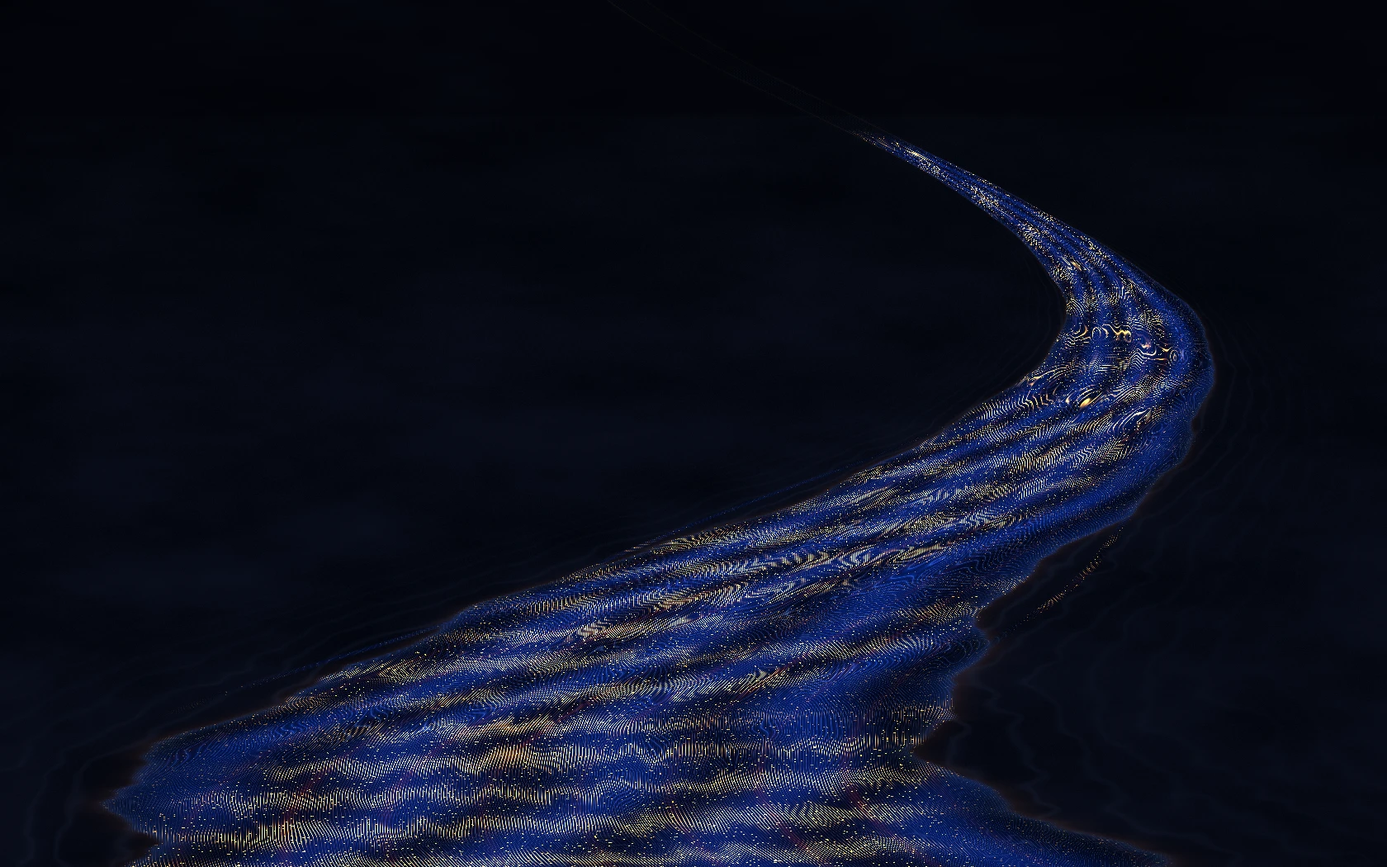
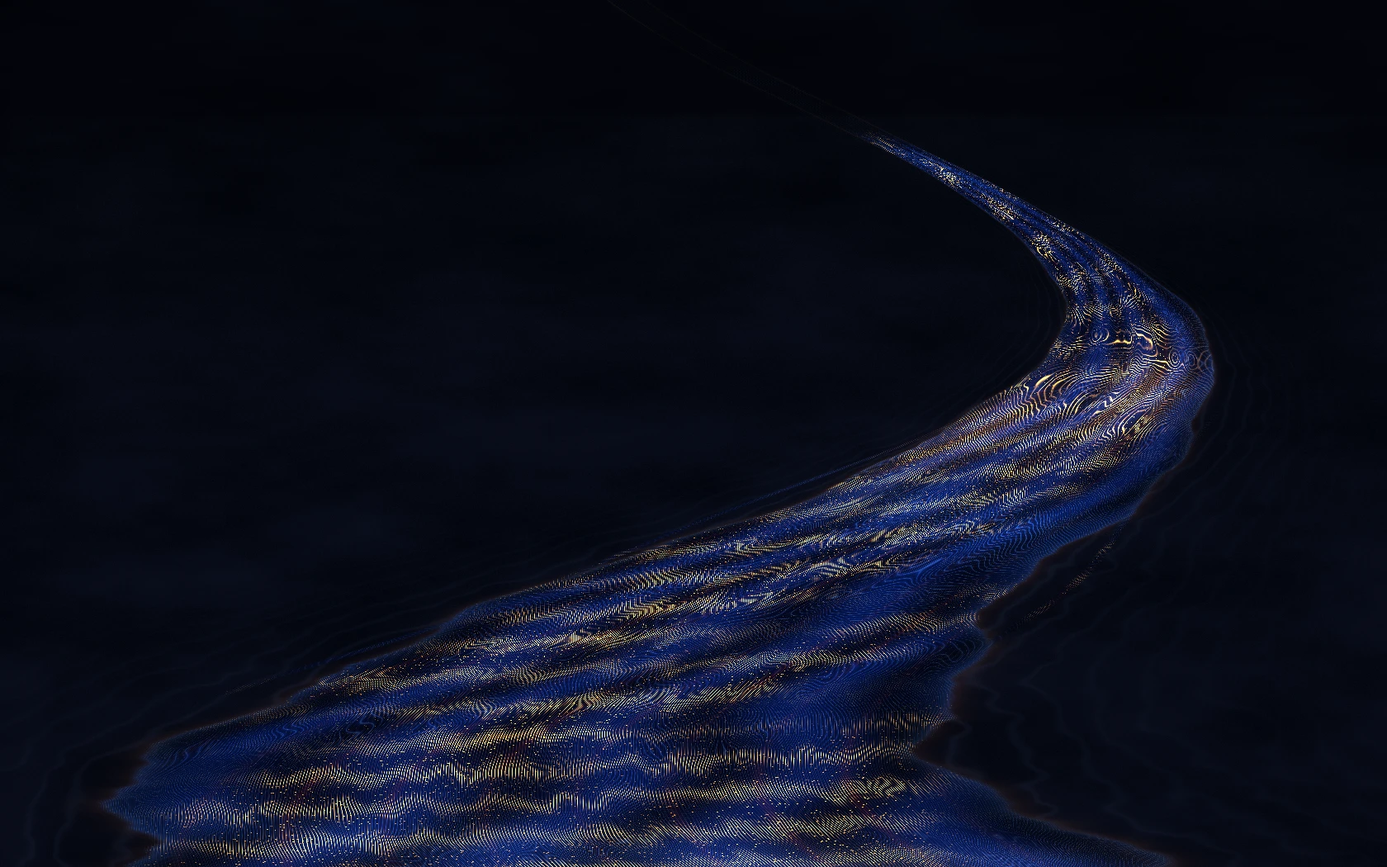
Refine river motion, reduce marker clutter, and focus person history

Changed region(s): [[0.0929, 0.1524, 0.8667, 1.0]]

diff --git a/river-of-influence/river.js b/river-of-influence/river.js
@@ -7,10 +7,13 @@
   const reduced=matchMedia('(prefers-reduced-motion: reduce)');
   const palette=['#f08e71','#e9c286','#b6c9fa','#f1deac','#72d0c7','#99bfe2','#c4cce0'];
   const labels=['领袖与变革者','商业与巨擘','艺术与文化','偶像与英雄','先驱与创新','思想与科学','原榜未细分 / 其他'];
-  const camera={x:.5,y:.5,zoom:1},pointer={x:.5,y:.5};
+  const camera={x:.5,y:.5,zoom:1},pointer={x:.5,y:.5,strength:0,target:0};
+  const wakes=Array.from({length:6},()=>({x:0,y:0,born:-10,energy:0})),wakeUniforms=new Float32Array(24);
+  let wakeIndex=0,lastWake=0,lastPointer=null;
   let width=innerWidth,height=innerHeight,dpr=1,year=null,key=null,lane=null,routeIds=null,focusId=null;
   let cameraMotion=null,navigationTarget={...camera},selectionOrigin=null,hitMarkers=[];
   let paused=reduced.matches,elapsed=0,lastTime=0,needsOverlay=true,labelsDirty=true,hovered=null,drag=null,dragDistance=0;
+  let reducedState=reduced.matches;
   const noiseId=s=>{let h=2166136261;for(const c of String(s))h=Math.imul(h^c.charCodeAt(0),16777619);return(h>>>0)/4294967296;};
   const nodes=RIVER_DATA.entries.map(r=>({...r,t:G.yearT(r.year)+(noiseId(r.id+'t')-.5)*.023,u:(noiseId(r.id+'u')-.5)*1.63}));
   const nodePosition=n=>G.position(year===n.year&&!key?n.t+(noiseId(n.id+'focus')-.5)*.065:n.t,n.u);
@@ -57,7 +60,8 @@
   varying vec2 uv;
   uniform vec2 resolution;
   uniform vec3 camera;
-  uniform vec2 pointer;
+  uniform vec3 pointer;
+  uniform vec4 wakes[6];
   uniform float time;
   float hash(vec2 p){return fract(sin(dot(p,vec2(127.1,311.7)))*43758.5453);}
   float noise(vec2 p){vec2 i=floor(p),f=fract(p);f=f*f*(3.-2.*f);return mix(mix(hash(i),hash(i+vec2(1.,0.)),f.x),mix(hash(i+vec2(0.,1.)),hash(i+1.),f.x),f.y);}
@@ -82,8 +86,19 @@
     bank+=vec3(.13,.06,.022)*shore*(.45+terrain)+vec3(.022,.029,.048)*contour*exp(-max(0.,abs(u)-1.)*1.9);
     bank*=.64+.36*smoothstep(.04,.7,p.y);
     if(t<-.03||t>1.6){gl_FragColor=vec4(bank,1.);return;}
-    float flow=t*85.-time*1.3;
-    float warp=sin(t*21.-time*.18)*2.1+sin(t*43.+u*4.+time*.12)*.9;
+    // The wake deforms the water material, never the factual person positions.
+    float wake=0.;
+    float aspect=resolution.x/resolution.y;
+    for(int i=0;i<6;i++){
+      vec2 d=(p-wakes[i].xy)*camera.z*vec2(aspect,1.);
+      float age=wakes[i].z,dist=length(d),radius=age*.055;
+      float envelope=exp(-pow((dist-radius)/.035,2.))*exp(-age*1.8)*wakes[i].w;
+      wake+=sin(dist*100.-age*8.)*envelope;
+    }
+    vec2 pd=(screen-pointer.xy)*vec2(aspect,1.);
+    float touch=exp(-dot(pd,pd)*75.)*pointer.z;
+    float flow=t*85.-time*2.1+wake*1.7;
+    float warp=sin(t*21.-time*.32)*2.1+sin(t*43.+u*4.+time*.21)*.9+wake*1.2+touch*.45*sin(u*13.-time*1.5);
     float f=u*(75.+90.*clamp(t,0.,1.))+warp+noise(vec2(u*11.,t*35.-time*.075))*3.8;
     float strand=.5+.5*sin(f*6.28318);
     float fine=.5+.5*sin(f*14.7+sin(flow*.36)*.9);
@@ -105,12 +120,19 @@
     float flake=step(.952,hash(ip))*smoothstep(.08,.22,fp.x)*(1.-smoothstep(.75,.94,fp.x));
     flake*=smoothstep(.05,.2,fp.y)*(1.-smoothstep(.58,.9,fp.y));
     flake*=.3+patch*2.5+goldZone*2.;
-    water+=vec3(2.2,1.3,.22)*flake;
+    water+=vec3(1.4,.83,.18)*flake*.55;
     water+=vec3(1.05,.65,.10)*pow(ripples,12.)*pow(strand,4.)*goldZone;
     float nearGlow=pow(max(0.,1.-abs(u+.18+sin(t*12.)*.21)),8.)*pow(ripples,9.)*patch;
     water+=vec3(.37,.20,.053)*nearGlow;
     float redVein=pow(.5+.5*sin(u*30.+t*29.+sin(t*17.)),24.);
     water+=vec3(.22,.027,.008)*redVein*(.2+patch*.25);
+    // Broad, staggered light fronts travel along the bend, about every 7 seconds.
+    float swell=pow(.5+.5*sin(t*9.-time*.92+u*.32),12.);
+    float undertow=pow(.5+.5*sin(t*14.-time*.64-u*.55+2.1),18.);
+    water*=.78+swell*.34;
+    water+=vec3(.92,.57,.16)*swell*(.12+.86*pow(strand,6.))*(.4+.6*reflection);
+    water+=vec3(.06,.16,.35)*undertow*(.2+.8*pow(fine,8.));
+    water+=vec3(.39,.29,.12)*(abs(wake)*.18+touch*.16)*(.3+.7*strand);
     float edge=1.-smoothstep(-.34,.03,coast);water*=.48+.52*edge;
     water+=vec3(.17,.29,.47)*shore*.3;
     vec3 col=mix(bank,water,inside*smoothstep(-.015,.03,t));
@@ -127,7 +149,7 @@
     if(!gl.getProgramParameter(program,gl.LINK_STATUS))throw Error(gl.getProgramInfoLog(program));gl.useProgram(program);
     const buffer=gl.createBuffer();gl.bindBuffer(gl.ARRAY_BUFFER,buffer);gl.bufferData(gl.ARRAY_BUFFER,new Float32Array([-1,-1,1,-1,-1,1,-1,1,1,-1,1,1]),gl.STATIC_DRAW);
     const loc=gl.getAttribLocation(program,'position');gl.enableVertexAttribArray(loc);gl.vertexAttribPointer(loc,2,gl.FLOAT,false,0,0);
-    for(const n of ['resolution','camera','pointer','time'])uniforms[n]=gl.getUniformLocation(program,n);
+    for(const n of ['resolution','camera','pointer','time','wakes[0]'])uniforms[n]=gl.getUniformLocation(program,n);
   }catch{gl=null;}}
   if(!gl)fallback();
   canvas.addEventListener('webglcontextlost',e=>{e.preventDefault();gl=null;fallback();window.dispatchEvent(new Event('river-renderer-change'));});
@@ -139,7 +161,7 @@
   }
   function rebuildLabels(){
     labelHost.replaceChildren();
-    let ns=key?nodes.filter(n=>n.year===nodes.find(x=>x.id===focusId)?.year):year?nodes.filter(n=>n.year===year):routeIds?nodes.filter(n=>routeIds.has(n.id)):featured.map(([name,yr])=>nodes.find(n=>n.name===name&&n.year===yr)).filter(Boolean);
+    let ns=key?nodes.filter(n=>n.key===key):year?nodes.filter(n=>n.year===year):routeIds?nodes.filter(n=>routeIds.has(n.id)):featured.map(([name,yr])=>nodes.find(n=>n.name===name&&n.year===yr)).filter(Boolean);
     ns.sort((a,b)=>(b.id===focusId)-(a.id===focusId));
     if(lane!==null)ns=ns.filter(n=>n.lane===lane);
     labelItems=ns.map(n=>{const el=document.createElement('button');el.className='river-label';el.dataset.person=n.id;el.hidden=true;el.setAttribute('aria-label',`${RIVER_CONTENT.aliases[n.name]||n.name}，${n.year} 年，查看事迹`);const text=document.createElement('span');text.className='label-name';text.textContent=RIVER_CONTENT.aliases[n.name]||n.name;const small=document.createElement('small');small.textContent=n.year;text.append(small);el.append(makeAvatar(n),text);labelHost.append(el);return{n,el};});labelsDirty=false;
@@ -150,14 +172,16 @@
     const chosen=key?nodes.filter(n=>n.key===key):routeIds?nodes.filter(n=>routeIds.has(n.id)):[];
     if(chosen.length>1){ctx.beginPath();for(let i=0;i<chosen.length;i++){const p=screen(chosen[i]);if(!i)ctx.moveTo(p.x,p.y);else{const prev=screen(chosen[i-1]);ctx.bezierCurveTo(prev.x,(prev.y+p.y)/2,p.x,(prev.y+p.y)/2,p.x,p.y);}}ctx.strokeStyle='#ead29b';ctx.lineWidth=1.1;ctx.setLineDash(routeIds?[3,5]:[]);ctx.stroke();ctx.setLineDash([]);}
     const drawerOpen=document.body.classList.contains('drawer-open'),right=drawerOpen&&width>700?width-425:width-18,bottom=drawerOpen&&width<700?height*.39:height-150;
-    const candidates=nodes.map(n=>({n,p:screen(n),priority:n.id===focusId?1000:active(n)&&selected?200:featured.some(([name,yr])=>n.name===name&&n.year===yr)?100:0})).filter(m=>m.p.x>22&&m.p.x<right&&m.p.y>100&&m.p.y<bottom).sort((a,b)=>b.priority-a.priority||noiseId(a.n.id+'order')-noiseId(b.n.id+'order'));
-    hitMarkers=[];const spacing=width<700?19:year||camera.zoom>2?15:24;
-    for(const marker of candidates){const {n,p}=marker;if(hitMarkers.some(m=>Math.hypot(m.p.x-p.x,m.p.y-p.y)<spacing))continue;hitMarkers.push(marker);const focused=n.id===focusId,over=hovered?.id===n.id,radius=focused?7:over?5.8:3.8;
-      ctx.globalAlpha=1;ctx.fillStyle='#07152d';ctx.beginPath();ctx.arc(p.x,p.y,radius+2.4,0,6.283);ctx.fill();ctx.strokeStyle=focused?'#f4cd81':'#eef3f7';ctx.lineWidth=focused?2.2:1.25;ctx.beginPath();ctx.arc(p.x,p.y,radius,0,6.283);ctx.stroke();ctx.fillStyle=focused?'#f4cd81':'#eef3f7';ctx.beginPath();ctx.arc(p.x,p.y,focused?2.5:1.25,0,6.283);ctx.fill();
+    const detailed=!!key||!!year||!!routeIds||camera.zoom>=1.8;
+    const candidates=detailed?nodes.filter(n=>active(n)).map(n=>({n,p:screen(n),priority:n.id===focusId?1000:0})).filter(m=>m.p.x>22&&m.p.x<right&&m.p.y>100&&m.p.y<bottom).sort((a,b)=>b.priority-a.priority||noiseId(a.n.id+'order')-noiseId(b.n.id+'order')):[];
+    hitMarkers=[];const spacing=width<700?48:54,limit=key?30:width<700?8:18;
+    for(const marker of candidates){const {n,p}=marker;if(hitMarkers.length>=limit||hitMarkers.some(m=>Math.hypot(m.p.x-p.x,m.p.y-p.y)<spacing))continue;hitMarkers.push(marker);const focused=n.id===focusId,over=hovered?.id===n.id,radius=focused?5:over?4.5:3;
+      ctx.globalAlpha=1;ctx.fillStyle='#06122c';ctx.beginPath();ctx.arc(p.x,p.y,radius+2,0,6.283);ctx.fill();
+      ctx.fillStyle=focused?'#f4cd81':'#e1e7ee';ctx.beginPath();ctx.moveTo(p.x,p.y-radius);ctx.lineTo(p.x+radius,p.y);ctx.lineTo(p.x,p.y+radius);ctx.lineTo(p.x-radius,p.y);ctx.closePath();ctx.fill();
     }
     ctx.globalAlpha=1;
     const occupied=[];let count=0;
-    for(const item of labelItems){const p=screen(item.n),name=RIVER_CONTENT.aliases[item.n.name]||item.n.name,textWidth=Math.min(width<700?210:260,[...name].reduce((sum,c)=>sum+(/[\u3400-\u9fff]/.test(c)?11:6.1),0)+56),limit=width<700?4:year?12:9;
+    for(const item of labelItems){const p=screen(item.n),name=RIVER_CONTENT.aliases[item.n.name]||item.n.name,textWidth=Math.min(width<700?210:260,[...name].reduce((sum,c)=>sum+(/[\u3400-\u9fff]/.test(c)?11:6.1),0)+56),limit=width<700?2:year?5:6;
       let visible=p.x>60&&p.x<width-75&&p.y>height*.19&&p.y<height-.23*height;
       if(drawerOpen&&width<700&&p.y>height*.36)visible=false;
       if(!selected&&p.x<width*.39&&p.y<height*.68)visible=false;
@@ -169,7 +193,6 @@
       item.el.hidden=!visible;
       if(visible){item.el.style.transform=`translate3d(${labelX}px,${p.y-21}px,0)`;occupied.push({x:labelX,y:p.y,w:textWidth});count++;}
     }
-    if(hovered){const p=screen(hovered);ctx.beginPath();ctx.arc(p.x,p.y,7,0,6.283);ctx.strokeStyle='#fff2d0';ctx.lineWidth=1;ctx.stroke();}
     needsOverlay=false;
   }
   function resize(){const r=canvas.parentElement.getBoundingClientRect();width=r.width;height=r.height;dpr=Math.min(devicePixelRatio||1,width<700?1.5:1.6);const glRatio=Math.min(dpr,1.25);canvas.width=Math.round(width*glRatio);canvas.height=Math.round(height*glRatio);overlay.width=Math.round(width*dpr);overlay.height=Math.round(height*dpr);if(gl)gl.viewport(0,0,canvas.width,canvas.height);Object.assign(camera,G.constrainCamera(camera,{focus:navigationFocus()}));navigationTarget={...camera};notifyView();}
@@ -182,19 +205,38 @@
   function tip(n,x,y){tooltip.hidden=!n;if(!n)return;tooltip.replaceChildren();const head=document.createElement('div');head.className='tip-heading';const text=document.createElement('div'),small=document.createElement('small'),strong=document.createElement('strong');small.textContent=n.year+' · '+n.category;strong.textContent=RIVER_CONTENT.aliases[n.name]||n.name;text.append(small,strong);head.append(makeAvatar(n),text);const fact=document.createElement('p');fact.textContent=n.summary||'事迹摘要正在核对。';tooltip.append(head,fact);tooltip.style.transform=`translate3d(${Math.max(8,Math.min(x+18,width-330))}px,${Math.max(95,Math.min(y+14,height-345))}px,0)`;}
   function down(e){if(e.target.closest('button,a,input,select'))return;drag={x:e.clientX,y:e.clientY,cx:camera.x,cy:camera.y};dragDistance=0;cameraMotion?.kill();gsap.killTweensOf(camera);navigationTarget={...camera};overlay.setPointerCapture(e.pointerId);tooltip.hidden=true;}
   overlay.addEventListener('pointerdown',down);
-  overlay.addEventListener('pointermove',e=>{const p=local(e);pointer.x=p.x/width;pointer.y=p.y/height;if(drag&&e.buttons){const dx=e.clientX-drag.x,dy=e.clientY-drag.y;dragDistance=Math.hypot(dx,dy);if(dragDistance>5){Object.assign(camera,G.constrainCamera({...camera,x:drag.cx-dx/width/camera.zoom,y:drag.cy-dy/height/camera.zoom},{focus:navigationFocus()}));navigationTarget={...camera};notifyView();window.dispatchEvent(new Event('river-interact'));}return;}hovered=findAt(p.x,p.y);overlay.style.cursor=hovered?'pointer':camera.zoom>1.1?'grab':'default';tip(hovered,p.x,p.y);needsOverlay=true;});
+  overlay.addEventListener('pointermove',e=>{const p=local(e);if(drag&&e.buttons){const dx=e.clientX-drag.x,dy=e.clientY-drag.y;dragDistance=Math.hypot(dx,dy);if(dragDistance>5){Object.assign(camera,G.constrainCamera({...camera,x:drag.cx-dx/width/camera.zoom,y:drag.cy-dy/height/camera.zoom},{focus:navigationFocus()}));navigationTarget={...camera};notifyView();window.dispatchEvent(new Event('river-interact'));}return;}hovered=findAt(p.x,p.y);overlay.style.cursor=hovered?'pointer':camera.zoom>1.1?'grab':'default';tip(hovered,p.x,p.y);needsOverlay=true;});
   overlay.addEventListener('pointerup',e=>{if(drag&&dragDistance<5){const p=local(e),n=findAt(p.x,p.y);if(n)window.dispatchEvent(new CustomEvent('river-person',{detail:n.id}));else window.dispatchEvent(new Event('river-dismiss'));}drag=null;});
   overlay.addEventListener('pointercancel',()=>drag=null);overlay.addEventListener('pointerleave',()=>{hovered=null;tooltip.hidden=true;needsOverlay=true;});
+  document.getElementById('experience').addEventListener('pointermove',e=>{
+    if(paused||reduced.matches||e.pointerType==='touch'||drag||e.target.closest('header,footer,aside,#modal,.view-tools')){pointer.target=0;lastPointer=null;return;}
+    const p=local(e);pointer.x=p.x/width;pointer.y=p.y/height;pointer.target=1;
+    if(!lastPointer)lastPointer=p;
+    if(lastPointer&&elapsed-lastWake>.065&&Math.hypot(p.x-lastPointer.x,p.y-lastPointer.y)>7){
+      const world=G.unproject(p,camera,width,height);
+      wakes[wakeIndex]={x:world.x,y:world.y,born:elapsed,energy:Math.min(1,Math.hypot(p.x-lastPointer.x,p.y-lastPointer.y)/45)};
+      wakeIndex=(wakeIndex+1)%wakes.length;lastWake=elapsed;lastPointer=p;
+    }
+  });
+  document.getElementById('experience').addEventListener('pointerleave',()=>{pointer.target=0;lastPointer=null;});
   const wheel=e=>{e.preventDefault();const p=local(e),delta=Math.max(-90,Math.min(90,e.deltaY)),z=Math.max(1,Math.min(5.2,navigationTarget.zoom*Math.exp(-delta*.0018))),near=findAt(p.x,p.y),anchor=near?nodePosition(near):G.riverAnchor(G.unproject(p,camera,width,height));zoomAround(z,focusId!==null||year?undefined:anchor);};
   for(const surface of [overlay,labelHost])surface.addEventListener('wheel',wheel,{passive:false});
   overlay.addEventListener('dblclick',e=>{const p=local(e),near=findAt(p.x,p.y);if(near)window.dispatchEvent(new CustomEvent('river-person',{detail:near.id}));else zoomAround(G.nextZoom(navigationTarget.zoom,1),G.riverAnchor(G.unproject(p,camera,width,height)));});
+  function syncMotionPreference(next=reduced.matches){
+    if(next===reducedState)return;reducedState=next;paused=next;pointer.target=pointer.strength=0;
+    for(const w of wakes)w.energy=0;
+    cameraMotion?.kill();gsap.killTweensOf(camera);navigationTarget={...camera};needsOverlay=true;
+    window.dispatchEvent(new Event('river-renderer-change'));
+  }
   function render(now){
     requestAnimationFrame(render);const delta=lastTime?Math.min(50,now-lastTime):0;lastTime=now;
+    syncMotionPreference();
     if(document.hidden)return;if(!paused)elapsed+=delta/1000;
-    if(gl&&(!paused||needsOverlay)){gl.useProgram(program);gl.uniform2f(uniforms.resolution,canvas.width,canvas.height);gl.uniform3f(uniforms.camera,camera.x,camera.y,camera.zoom);gl.uniform2f(uniforms.pointer,pointer.x,pointer.y);gl.uniform1f(uniforms.time,elapsed);gl.drawArrays(gl.TRIANGLES,0,6);}
+    if(!paused)pointer.strength+=(pointer.target-pointer.strength)*(1-Math.exp(-delta/220));
+    if(gl&&(!paused||needsOverlay)){for(let i=0;i<wakes.length;i++){const w=wakes[i];wakeUniforms.set([w.x,w.y,elapsed-w.born,reduced.matches?0:w.energy],i*4);}gl.useProgram(program);gl.uniform2f(uniforms.resolution,canvas.width,canvas.height);gl.uniform3f(uniforms.camera,camera.x,camera.y,camera.zoom);gl.uniform3f(uniforms.pointer,pointer.x,pointer.y,reduced.matches?0:pointer.strength);gl.uniform4fv(uniforms['wakes[0]'],wakeUniforms);gl.uniform1f(uniforms.time,elapsed);gl.drawArrays(gl.TRIANGLES,0,6);}
     if(needsOverlay)paintOverlay();
   }
-  reduced.addEventListener('change',()=>{paused=reduced.matches;cameraMotion?.kill();gsap.killTweensOf(camera);navigationTarget={...camera};needsOverlay=true;});
+  reduced.addEventListener('change',e=>syncMotionPreference(e.matches));
   window.RIVER={palette,labels,nodes,
     focusYear(y,close=true){selectionOrigin=null;year=y;key=null;lane=null;routeIds=null;focusId=null;stateChanged();if(close)focusNodes(nodes.filter(n=>n.year===y),5.2);},
     selectKey(k,id){if(!selectionOrigin)selectionOrigin={year,lane,routeIds,camera:{...camera}};const switching=focusId!==null;key=k;year=null;lane=null;routeIds=null;focusId=id??nodes.find(n=>n.key===k)?.id??null;stateChanged();const ns=nodes.filter(n=>n.id===focusId),p=screen(ns[0]);if(!switching||p.x<70||p.x>width-(width>700?470:45)||p.y<140||p.y>height*(width<700?.34:.74))focusNodes(ns,2.8);},
@@ -204,7 +246,7 @@
     focusRoute(ids,id){selectionOrigin=null;routeIds=new Set(ids);year=null;key=null;lane=null;focusId=id??null;stateChanged();const n=nodes.find(n=>n.id===id);if(n)focusNodes([n],3.2);else moveCamera({x:.5,y:.5,zoom:1});},
     zoomBy(f){zoomAround(G.nextZoom(navigationTarget.zoom,f>1?1:-1));},
     reset(){selectionOrigin=null;year=null;key=null;lane=null;routeIds=null;focusId=null;stateChanged();moveCamera({x:.5,y:.5,zoom:1});document.body.classList.remove('zoomed');},
-    toggleMotion(){paused=!paused;needsOverlay=true;return paused;},
+    toggleMotion(){paused=reduced.matches||!paused;needsOverlay=true;return paused;},
     get paused(){return paused;},get elapsed(){return elapsed;},get camera(){return{...camera};},get webgl(){return!!gl;},get visibleMarkers(){return hitMarkers.map(m=>({id:m.n.id,x:m.p.x,y:m.p.y}));},project(id){const n=nodes.find(n=>n.id===id);return n?screen(n):null;},refresh(){needsOverlay=true;}
   };
   resize();addEventListener('resize',resize);requestAnimationFrame(render);document.getElementById('loading').hidden=true;

diff --git a/river-of-influence/app.js b/river-of-influence/app.js
@@ -45,7 +45,7 @@ function showYear(year){
  openDrawer('年度名单 / THE ANNUAL LIST',html);
 }
 function showPerson(id){
- const r=records.find(x=>x.id===Number(id));if(!r)return;if(currentPersonId===null){const archive=!$('modal').hidden&&!!$('archive-query');personOrigin={title:$('scene-title').textContent,subtitle:$('scene-subtitle').textContent,year:selectedYear,caption:$('timeline-caption').textContent,legend:[...document.querySelectorAll('.legend button')].flatMap((b,i)=>b.getAttribute('aria-pressed')==='true'?[i]:[]),archive};personSequence=archive?archiveMatches():records.filter(x=>x.year===r.year);}else if(!personSequence.some(x=>x.id===r.id))personSequence=records.filter(x=>x.year===r.year);currentPersonId=r.id;explore(zh(r.name),`${r.year} 年的事迹 · 可继续点选河面上的其他人物。`);selectYearButton(r.year);clearLegend();document.body.classList.add('drawer-open');R.selectKey(r.key,r.id);
+ const r=records.find(x=>x.id===Number(id));if(!r)return;if(currentPersonId===null){const archive=!$('modal').hidden&&!!$('archive-query');personOrigin={title:$('scene-title').textContent,subtitle:$('scene-subtitle').textContent,year:selectedYear,caption:$('timeline-caption').textContent,legend:[...document.querySelectorAll('.legend button')].flatMap((b,i)=>b.getAttribute('aria-pressed')==='true'?[i]:[]),archive};personSequence=archive?archiveMatches():records.filter(x=>x.year===r.year);}else if(!personSequence.some(x=>x.id===r.id))personSequence=records.filter(x=>x.year===r.year);currentPersonId=r.id;explore(zh(r.name),`${r.year} 年的事迹 · 河面仅显示此署名的入选记录。`);selectYearButton(r.year);clearLegend();document.body.classList.add('drawer-open');R.selectKey(r.key,r.id);
  const rr=repeats.get(r.key);
  let html=`${personOrigin?.archive?`<button class="source-link" data-year="${r.year}">← ${r.year} 年完整名单</button>`:''}<div class="mini-heading">${r.year} · ${esc(r.category)}</div>${personHeading(r)}<p class="person-summary">${esc(fact(r))}</p><div class="detail-meta"><span class="tag">${rr.length} 次同署名入选</span><span class="tag">${esc(R.labels[r.lane])}</span></div>`;
  html+=`<a class="source-link source-secondary" href="${esc(r.url)}" target="_blank" rel="noopener">资料出处 · ${r.year} 年 TIME 原文 <span>↗</span></a>${r.by?`<p class="byline">原文撰文 / ${esc(r.by)}</p>`:''}<div class="mini-heading">选择年份，比较当时的事迹</div><div class="repeat-years">${rr.map(x=>`<button data-person="${x.id}" class="${x.year===r.year?'active':''}">${x.year}</button>`).join('')}</div><p class="byline">连线表示同一署名跨年再次入选。联名条目保留原样，因此这里的次数不等于个人完整的入选次数。</p>`;
@@ -80,7 +80,7 @@ function showArchive(){
 }
 function archiveMatches(){const q=normalize(archiveState.query.trim());return records.filter(r=>(archiveState.year==='all'||String(r.year)===archiveState.year)&&(archiveState.lane==='all'||String(r.lane)===archiveState.lane)&&(!q||normalize([r.name,zh(r.name),r.summary,r.by,r.year].join(' ')).includes(q)));}
 function renderArchive(){const found=archiveMatches();$('archive-count').textContent=`找到 ${found.length.toLocaleString('en-US')} 条记录 · 当前显示 ${Math.min(found.length,archiveState.limit)} 条`;$('archive-results').innerHTML=found.length?found.slice(0,archiveState.limit).map(r=>row(r)).join(''):'<p class="prose">没有找到匹配的名字。可尝试官方英文姓名，或清除年份与支流筛选。</p>';$('load-more').hidden=found.length<=archiveState.limit;}
-function showSources(){openModal('来源与口径 / A TRACEABLE CURRENT',`<div class="reading-intro"><div class="eyebrow">资料核对至 2026 年 11 月 7 日</div><h2>名单来自哪里，怎样阅读这条河。</h2></div><div class="prose"><p><strong>为什么从 2000 年开始，却只有 23 届？</strong><br>TIME 在 2004 年恢复了这一评选，并将其作为年度专题。2000—2003 年没有对应的年度主榜。更早的二十世纪人物评选，也不属于这条年度序列。<a class="source-link" target="_blank" rel="noopener" href="https://content.time.com/time/press_releases/article/0,8599,1047355,00.html">TIME 官方说明 ↗</a></p><p><strong>到底有多少个人？</strong><br>作品整理了 2004—2026 年的全部 23 届主榜，共 ${records.length.toLocaleString('en-US')} 条人物、联名或集体文章记录。约 2300 个年度名额并不等于 2300 位不同的人：跨年有重复，文章也有联名、乐队、组织等。为保留来源含义，这里不强行拆成单个人。</p><p><strong>数据怎样整理？</strong><br>姓名、当年分类、人物链接与撰文者来自各届 TIME 官方专题的完整结构数据，包含首屏之后的条目。剔除了导言、读者投票、往届回顾、同年重复迁移页面，以及 2019 年 Jane Walker、2020 年 Toyota Venza 的商业合作卡片。保留了 2012 年正式主榜中的 Rogues 类别。中文译名只辅助查找，官方署名始终保留。</p><p><strong>头像和一句话事迹从哪里来？</strong><br>头像使用对应年份 TIME 人物文章的官方配图，可能是本人照片、合照或编辑插画。中文事迹根据当年人物原文整理，优先写具体工作、作品、行动与结果。少量只有赞语或问答的文章，另行查证作品、奖项和具体事件，事迹范围限于入选当年及此前，补证来源列在人物详情中。跨年记录分别总结，保留争议与负面影响。文章出处仍保留在详情中，供进一步核对。配图无法加载时，显示姓名首字母。</p><p><strong>河流的颜色和连线是什么意思？</strong><br>颜色把相近的历年编辑分类归入七条便于浏览的支流，原始分类保留在人名详情中。Pioneers 与 Innovators 合为“先驱与创新”；2011 年 TIME 100、2012 年 TIME 100: The List 及 Rogues 归入“原榜未细分 / 其他”。这些支流不适合直接用来证明行业占比的变化。流动的细丝与碎金是装饰纹理，白色圆环才对应可点选的人物记录。全景按间距展示部分圆环，放大或选择年份可展开更多人物；完整记录始终可以从名单与搜索中找到。大小、位置和亮度不表示官方排名或道德评价。</p><p><strong>怎样理解重复入选？</strong><br>只合并可确定的少量拼写、称谓差异，例如 Vladmir Putin 与 Vladimir Putin、Hillary Rodham Clinton 与 Hillary Clinton。独立署名与联名分别保留，因此次数表示“同署名条目”，并非个人完整入选次数。点击人物出现的连线表示重复入选；六条阅读路线是主题比较，不主张人物间存在因果关系。</p><p><strong>这条河能代表整个时代吗？</strong><br>这是 TIME 每年的编辑选择。入选包括正面与负面的影响，也反映新闻时点与媒体视角。入选年份通常晚于工作的起点；团队、基层劳动、地方性经验和不易被报道的成果，仍会在名单之外。六条路线与宏观解释属于作品的策展判断。<a class="source-link" target="_blank" rel="noopener" href="https://time.com/article/2026/04/15/time100-how-we-chose/">2026 年编辑选榜说明 ↗</a></p></div><div class="download"><a href="time100-records.json" download>下载完整记录与年度来源 JSON ↓</a></div><table class="source-table"><thead><tr><th>年份</th><th>文章记录</th><th>官方年度主榜</th></tr></thead><tbody>${D.years.map(y=>`<tr><td>${y.year}</td><td>${y.count}</td><td><a href="${esc(y.url)}" target="_blank" rel="noopener">TIME ${y.year} 完整名单 ↗</a></td></tr>`).join('')}</tbody></table><p class="byline">参考图仅用于理解深蓝、碎金、金属反光和流动纹理。页面纹理由程序绘制，未将参考图片复制为背景。姓名与文章版权属于各权利人。此作品为独立整理，与 TIME 无隶属关系。</p>`);}
+function showSources(){openModal('来源与口径 / A TRACEABLE CURRENT',`<div class="reading-intro"><div class="eyebrow">资料核对至 2026 年 11 月 7 日</div><h2>名单来自哪里，怎样阅读这条河。</h2></div><div class="prose"><p><strong>为什么从 2000 年开始，却只有 23 届？</strong><br>TIME 在 2004 年恢复了这一评选，并将其作为年度专题。2000—2003 年没有对应的年度主榜。更早的二十世纪人物评选，也不属于这条年度序列。<a class="source-link" target="_blank" rel="noopener" href="https://content.time.com/time/press_releases/article/0,8599,1047355,00.html">TIME 官方说明 ↗</a></p><p><strong>到底有多少个人？</strong><br>作品整理了 2004—2026 年的全部 23 届主榜，共 ${records.length.toLocaleString('en-US')} 条人物、联名或集体文章记录。约 2300 个年度名额并不等于 2300 位不同的人：跨年有重复，文章也有联名、乐队、组织等。为保留来源含义，这里不强行拆成单个人。</p><p><strong>数据怎样整理？</strong><br>姓名、当年分类、人物链接与撰文者来自各届 TIME 官方专题的完整结构数据，包含首屏之后的条目。剔除了导言、读者投票、往届回顾、同年重复迁移页面，以及 2019 年 Jane Walker、2020 年 Toyota Venza 的商业合作卡片。保留了 2012 年正式主榜中的 Rogues 类别。中文译名只辅助查找，官方署名始终保留。</p><p><strong>头像和一句话事迹从哪里来？</strong><br>头像使用对应年份 TIME 人物文章的官方配图，可能是本人照片、合照或编辑插画。中文事迹根据当年人物原文整理，优先写具体工作、作品、行动与结果。少量只有赞语或问答的文章，另行查证作品、奖项和具体事件，事迹范围限于入选当年及此前，补证来源列在人物详情中。跨年记录分别总结，保留争议与负面影响。文章出处仍保留在详情中，供进一步核对。配图无法加载时，显示姓名首字母。</p><p><strong>河流的颜色和连线是什么意思？</strong><br>颜色把相近的历年编辑分类归入七条便于浏览的支流，原始分类保留在人名详情中。Pioneers 与 Innovators 合为“先驱与创新”；2011 年 TIME 100、2012 年 TIME 100: The List 及 Rogues 归入“原榜未细分 / 其他”。这些支流不适合直接用来证明行业占比的变化。流动的细丝、碎金与明暗波纹构成河面材质。全景只保留少量头像作为阅读入口；放大或选择年份后，少量菱形标记对应可点选的真实记录。选中人物后，头像和连线仅表示同一署名的历年入选，不高亮其他人物。完整记录始终可以从名单与搜索中找到。大小、位置和亮度不表示官方排名或道德评价。</p><p><strong>怎样理解重复入选？</strong><br>只合并可确定的少量拼写、称谓差异，例如 Vladmir Putin 与 Vladimir Putin、Hillary Rodham Clinton 与 Hillary Clinton。独立署名与联名分别保留，因此次数表示“同署名条目”，并非个人完整入选次数。点击人物出现的连线表示重复入选；六条阅读路线是主题比较，不主张人物间存在因果关系。</p><p><strong>这条河能代表整个时代吗？</strong><br>这是 TIME 每年的编辑选择。入选包括正面与负面的影响，也反映新闻时点与媒体视角。入选年份通常晚于工作的起点；团队、基层劳动、地方性经验和不易被报道的成果，仍会在名单之外。六条路线与宏观解释属于作品的策展判断。<a class="source-link" target="_blank" rel="noopener" href="https://time.com/article/2026/04/15/time100-how-we-chose/">2026 年编辑选榜说明 ↗</a></p></div><div class="download"><a href="time100-records.json" download>下载完整记录与年度来源 JSON ↓</a></div><table class="source-table"><thead><tr><th>年份</th><th>文章记录</th><th>官方年度主榜</th></tr></thead><tbody>${D.years.map(y=>`<tr><td>${y.year}</td><td>${y.count}</td><td><a href="${esc(y.url)}" target="_blank" rel="noopener">TIME ${y.year} 完整名单 ↗</a></td></tr>`).join('')}</tbody></table><p class="byline">参考图仅用于理解深蓝、碎金、金属反光和流动纹理。页面纹理由程序绘制，未将参考图片复制为背景。姓名与文章版权属于各权利人。此作品为独立整理，与 TIME 无隶属关系。</p>`);}
 for(let year=2000;year<=2026;year++){const b=document.createElement('button');b.textContent=year;b.dataset.year=year;b.setAttribute('aria-pressed','false');b.setAttribute('aria-label',year<2004?year+'，无年度主榜':year+' 年名单');if(year<2004)b.className='gap';$('timeline').append(b);}
 R.labels.forEach((label,i)=>{const b=document.createElement('button');b.style.setProperty('--swatch',R.palette[i]);b.innerHTML=`<i></i><span>${esc(label)}</span>`;b.setAttribute('aria-pressed','false');b.addEventListener('click',()=>{const next=b.getAttribute('aria-pressed')!=='true';document.querySelectorAll('.legend button').forEach(x=>x.setAttribute('aria-pressed','false'));b.setAttribute('aria-pressed',String(next));explore(next?label:'整个时代');R.setLane(next?i:null);selectedYear=null;selectYearButton(null);$('timeline-caption').textContent=next?label+' · 依历年编辑分类归并':'2000—2003 无年度主榜 · 2004 年起汇入人物';});$('legend').append(b);});
 const legendNote=document.createElement('small');legendNote.textContent='点击聚焦 · 依编辑分类归并';$('legend').append(legendNote);
@@ -94,7 +94,7 @@ $('home').onclick=e=>{e.preventDefault();home();};$('overview').onclick=home;$('
 window.addEventListener('river-interact',()=>{if(!document.body.classList.contains('exploring'))explore();});
 function zoomFeedback(v){$('zoom-level').textContent=`${v.mode} ${v.zoom.toFixed(1)}×`;$('zoom-in').disabled=!v.canZoomIn;$('zoom-out').disabled=!v.canZoomOut;}
 window.addEventListener('river-view',e=>zoomFeedback(e.detail));zoomFeedback({zoom:R.camera.zoom,mode:'全景',canZoomIn:true,canZoomOut:false});
-function motionButton(){const paused=R.paused;$('motion').disabled=!R.webgl;$('motion').setAttribute('aria-pressed',String(paused));$('motion').setAttribute('aria-label',paused?'恢复水流':'暂停水流');$('motion').innerHTML=paused?'<svg viewBox="0 0 20 20"><path d="m7 4 8 6-8 6z"/></svg>':'<svg viewBox="0 0 20 20"><path d="M7 5v10m6-10v10"/></svg>';}
+function motionButton(){const paused=R.paused;$('motion').disabled=!R.webgl||reduceMotion.matches;$('motion').setAttribute('aria-pressed',String(paused));$('motion').setAttribute('aria-label',paused?'恢复水流':'暂停水流');$('motion').innerHTML=paused?'<svg viewBox="0 0 20 20"><path d="m7 4 8 6-8 6z"/></svg>':'<svg viewBox="0 0 20 20"><path d="M7 5v10m6-10v10"/></svg>';}
 motionButton();window.addEventListener('river-renderer-change',motionButton);$('motion').onclick=()=>{R.toggleMotion();motionButton();};reduceMotion.addEventListener('change',motionButton);
 $('enter-river').onclick=()=>explore();$('latest-year').onclick=()=>showYear(2026);
 $('toggle-legend').onclick=()=>{const open=$('legend').hidden;$('legend').hidden=!open;$('toggle-legend').setAttribute('aria-expanded',String(open));if(open)panelEnter($('legend'));};

diff --git a/river-of-influence/index.html b/river-of-influence/index.html
@@ -28,11 +28,11 @@
  <div id="river-labels" aria-label="河面上的人物"></div>
  <button id="toggle-legend" class="legend-toggle" aria-expanded="false">支流分类 <span>＋</span></button><div class="legend" id="legend" aria-label="按编辑分类聚焦" hidden></div>
  <section class="river-note" id="river-note"><div class="eyebrow">正在浏览 / THE CURRENT</div><p id="scene-title">整个时代</p><span id="scene-subtitle">点击人物，追踪跨年出现的名字。</span></section>
- <div class="view-tools"><span id="view-hint">点圆环或头像看人物 · 点空白处收起</span><output id="zoom-level" aria-label="当前缩放">全景 1.0×</output><button id="zoom-out" aria-label="缩小"><svg viewBox="0 0 20 20"><path d="M4 10h12"/></svg></button><button id="zoom-in" aria-label="放大"><svg viewBox="0 0 20 20"><path d="M4 10h12m-6-6v12"/></svg></button><button id="reset" aria-label="回到全景"><svg viewBox="0 0 20 20"><path d="M4 7a6 6 0 1 1 0 6M4 3v4h4"/></svg></button><button id="motion" aria-pressed="false" aria-label="暂停水流"><svg viewBox="0 0 20 20"><path d="M7 5v10m6-10v10"/></svg></button></div>
+ <div class="view-tools"><span id="view-hint">移动鼠标，轻触水面 · 点击头像看人物</span><output id="zoom-level" aria-label="当前缩放">全景 1.0×</output><button id="zoom-out" aria-label="缩小"><svg viewBox="0 0 20 20"><path d="M4 10h12"/></svg></button><button id="zoom-in" aria-label="放大"><svg viewBox="0 0 20 20"><path d="M4 10h12m-6-6v12"/></svg></button><button id="reset" aria-label="回到全景"><svg viewBox="0 0 20 20"><path d="M4 7a6 6 0 1 1 0 6M4 3v4h4"/></svg></button><button id="motion" aria-pressed="false" aria-label="暂停水流"><svg viewBox="0 0 20 20"><path d="M7 5v10m6-10v10"/></svg></button></div>
  <footer>
   <div class="time-heading"><span>时间的河道 <small>THE YEARS</small></span><span id="timeline-caption">2000—2003 无年度主榜 · 2004 年起汇入人物</span><button id="latest-year">抵达 2026 <span>↗</span></button></div>
   <div class="timeline" id="timeline" aria-label="选择年份"></div>
-  <div class="footer-meta"><span class="marker-key"><i aria-hidden="true"></i>白色圆环可点开人物 · 金色细丝为水纹</span><span>放大或选择年份，可展开更多人物</span><span id="data-date">人物资料核对 2026.11.07</span></div>
+  <div class="footer-meta"><span class="marker-key">从头像进入人物，从年份查看完整名单</span><span>河面反光随水流变化 · 右侧可暂停</span><span id="data-date">人物资料核对 2026.11.07</span></div>
  </footer>
  <div id="tooltip" role="status" hidden></div>
  <aside id="drawer" aria-label="人物与年度详情" hidden><div class="drawer-head"><span id="drawer-kicker">探索</span><button id="drawer-back" class="drawer-back" hidden>← 返回名单</button><button id="close-drawer" class="icon-button drawer-dismiss" aria-label="收起详情"><span>收起</span><svg viewBox="0 0 24 24"><path d="m7 7 10 10M17 7 7 17"/></svg></button></div><div id="drawer-body"></div><nav id="person-nav" aria-label="切换同年人物" hidden><button id="person-prev">← 上一位</button><span id="person-counter"></span><button id="person-next">下一位 →</button></nav></aside>

diff --git a/river-of-influence/style.css b/river-of-influence/style.css
@@ -63,6 +63,7 @@
 #person-counter{font-size:10px;line-height:1.5;color:#aebcd1;white-space:nowrap;align-self:center}
 .marker-key{display:flex;align-items:center;gap:7px;color:#dce5f0;font-size:10px;letter-spacing:.2px}
 .marker-key i{display:inline-block;flex-shrink:0;width:9px;height:9px;border:1.5px solid #edf3f7;border-radius:50%;background:#07152d;box-shadow:0 0 0 2px #07152d}
-.river-label{border-color:#e7eef7a6}
+.river-label{border-color:#c5b28750;background:#06122cc9}
+.river-label:hover .person-avatar{filter:brightness(1.14)}
 .river-label:before{display:none}
 @media(max-width:700px){#drawer{top:auto;height:60svh;max-height:60svh;border-radius:16px 16px 0 0}.drawer-head{padding:10px 16px;min-height:58px}#drawer-body{padding:18px 23px 26px}#person-nav{padding:7px 22px max(8px,env(safe-area-inset-bottom))}.person-heading{margin:10px 0 16px}.person-summary{font-size:15px}.marker-key{font-size:8px;gap:5px}.marker-key i{width:8px;height:8px}.drawer-open .view-tools{visibility:visible;right:5%;bottom:auto;top:82px}.drawer-open .view-tools #zoom-level{display:none}}
